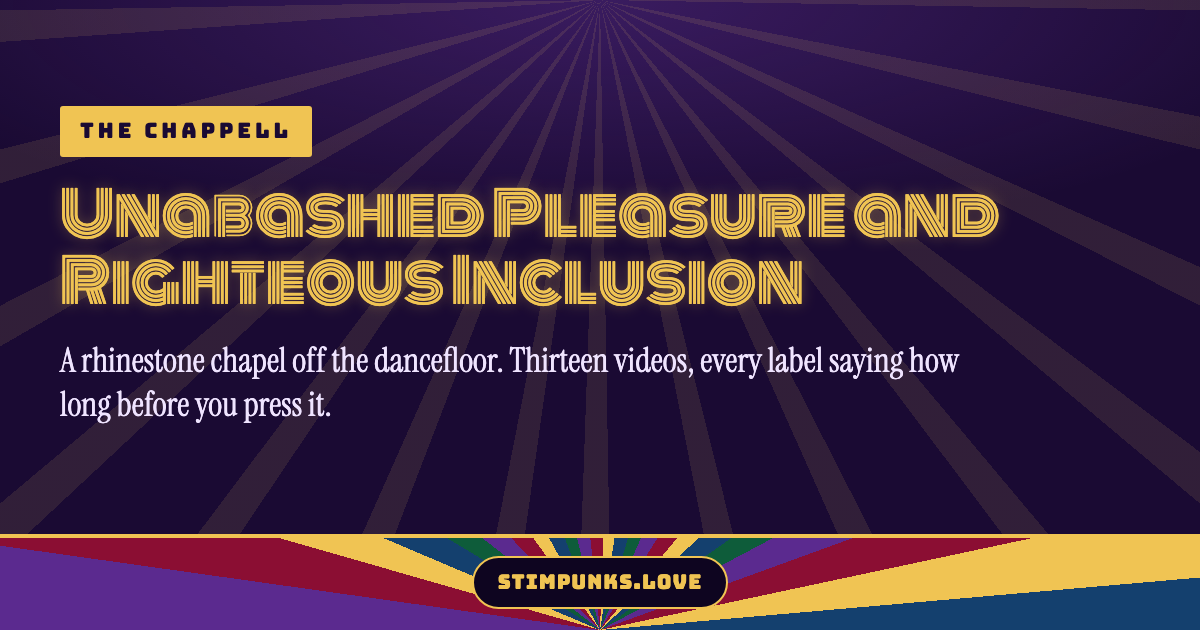
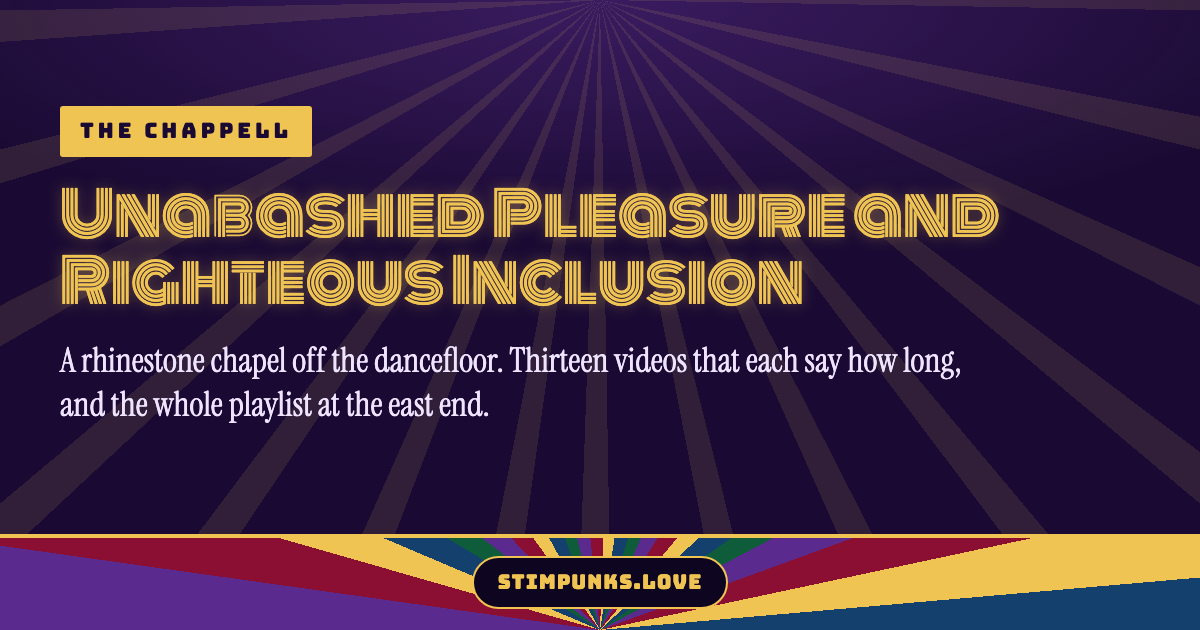
the chappell: a chancel at the east end, and the button that cannot say how long
The whole playlist now plays in The Chappell -- our own, from our own
channel, the one the arcade was lifted from -- at the east end of the
nave, after the thirteen niches you visit one at a time. Ryan asked for
it without the random start, and that is right for a different reason
than convenience: Club Chronic opens a five-hundred-track list somewhere
random because nobody is going to reach the end of it, and these
thirteen were put in an order, so opening in the middle would be this
site overruling the person who chose it.

ADDING THE EMBED WAS THE EASY PART. Two published sentences would have
become false. The room's consent banner said every button says how long
the thing is before you press it -- the promise that room is organised
around, because a twenty-three minute concert sits beside three-minute
videos and one press is only consent if you know what you are agreeing
to. A playlist cannot say how long: it is a list we keep adding to,
today's total is wrong the next time it changes, and an authoritative-
looking wrong number is worse than none. The banner now says every
button THAT PLAYS ONE THING says how long, and that the one playing the
whole playlist says instead that it runs until you stop it.

make-chappell.py holds both halves rather than leaving it to memory: it
REQUIRES a runtime on every track and REFUSES one on the playlist. That
is the pair of rules make-club.py already holds, arriving where a room's
[…]

Changed region(s): [[0.0308, 0.6032, 0.4008, 0.6635], [0.555, 0.5429, 0.8017, 0.6032]]

diff --git a/the-chappell.html b/the-chappell.html
@@ -4,20 +4,20 @@
 <meta charset="utf-8">
 <meta name="viewport" content="width=device-width, initial-scale=1">
 <title>The Chappell &mdash; Stimpunks.Love</title>
-<meta name="description" content="A subroom off Pink Pony Club: thirteen Chappell Roan videos in a rhinestone chapel. Every label says how long before you press it, and nothing reaches YouTube until you do.">
+<meta name="description" content="A subroom off Pink Pony Club: thirteen Chappell Roan videos in a rhinestone chapel, and the whole playlist at the east end. Every label that plays one thing says how long before you press it, and nothing reaches YouTube until you do.">
 <link rel="canonical" href="https://stimpunks.love/the-chappell.html">
 <meta name="color-scheme" content="dark">
 <meta name="theme-color" content="#1A0A33">
 <meta property="og:type" content="website">
 <meta property="og:site_name" content="Stimpunks.Love">
 <meta property="og:title" content="The Chappell &mdash; Stimpunks.Love">
-<meta property="og:description" content="A rhinestone chapel off the dancefloor. Thirteen videos, every label saying how long before you press it.">
+<meta property="og:description" content="A rhinestone chapel off the dancefloor. Thirteen videos that each say how long, and the whole playlist at the east end.">
 <meta property="og:url" content="https://stimpunks.love/the-chappell.html">
 <meta property="og:image" content="https://stimpunks.love/og/the-chappell.png">
 <meta property="og:image:type" content="image/png">
 <meta property="og:image:width" content="1200">
 <meta property="og:image:height" content="630">
-<meta property="og:image:alt" content="A near-black indigo card lit from the top by a violet rose window with thin gold rays fanning out of it. A small gold plate reading THE CHAPPELL, then “Unabashed Pleasure and Righteous Inclusion” in a gold neon-marquee face, and below it in serif: A rhinestone chapel off the dancefloor. Thirteen videos, every label saying how long before you press it. A band of stained glass in ruby, gold, sapphire, emerald and amethyst runs along the foot, with stimpunks.love on a gold-edged tag across it.">
+<meta property="og:image:alt" content="A near-black indigo card lit from the top by a violet rose window with thin gold rays fanning out of it. A small gold plate reading THE CHAPPELL, then “Unabashed Pleasure and Righteous Inclusion” in a gold neon-marquee face, and below it in serif: A rhinestone chapel off the dancefloor. Thirteen videos that each say how long, and the whole playlist at the east end. A band of stained glass in ruby, gold, sapphire, emerald and amethyst runs along the foot, with stimpunks.love on a gold-edged tag across it.">
 <meta name="twitter:card" content="summary_large_image">
 <link rel="icon" href="favicon.svg" type="image/svg+xml">
 <link rel="manifest" href="site.webmanifest">
@@ -55,7 +55,7 @@
 
   <section class="votive">
     <strong>NOTHING PLAYS UNTIL YOU PRESS PLAY.</strong>
-    <p>Same rule as every other room, and one addition that this room needed: <strong>every button says how long the thing is before you press it.</strong> There is a twenty-three minute concert in here sitting beside three-minute videos, and &ldquo;press play&rdquo; is only consent if you know what you are agreeing to. Until you press one, nothing on this page has contacted YouTube &mdash; no iframe, no cookie, no request.</p>
+    <p>Same rule as every other room, and one addition that this room needed: <strong>every button that plays one thing says how long it is before you press it.</strong> There is a twenty-three minute concert in here sitting beside three-minute videos, and &ldquo;press play&rdquo; is only consent if you know what you are agreeing to. <strong>The one button that plays the whole playlist says instead that it runs until you stop it</strong> &mdash; a list we keep adding to has no length, and a number there would be wrong the next time the playlist changed and would look authoritative in the meantime. Until you press one, nothing on this page has contacted YouTube &mdash; no iframe, no cookie, no request.</p>
     <div class="votive__candles" aria-hidden="true"><span></span><span></span><span></span><span></span><span></span><span></span></div>
   </section>
 
@@ -199,6 +199,22 @@
       </li>
     <!-- chappell:end -->
     </ul>
+  </section>
+
+  <!-- THE CHANCEL. The east end of the nave: the whole playlist, after the
+       thirteen niches you visit one at a time. Written by tools/make-chappell.py
+       from data/chappell.json -- do not hand-edit between the markers. -->
+  <section class="chancel">
+<!-- chappell-chancel:begin -->
+      <div class="chancel__glass" aria-hidden="true"></div>
+      <h3>Unabashed Pleasure and Righteous Inclusion With Chappell Roan</h3>
+      <p class="chancel__note">The whole thing, in the order we put it in. The niches are for choosing one; this is for putting it all on and leaving it.</p>
+      <button type="button" class="facade" data-embed-src="https://www.youtube-nocookie.com/embed/videoseries?list=PLRtKsTScL-vTQHqW3QcBQ2mx6yyRNXEhy" data-embed-title="Unabashed Pleasure and Righteous Inclusion With Chappell Roan on YouTube">
+        Play the whole playlist &mdash; runs until you stop it
+        <span class="facade__play">&#9654; PRESS PLAY</span>
+      </button>
+      <p class="chancel__credit">No runtime on this one: a playlist is a list we keep adding to, and a total here would be wrong the next time it changed. On YouTube, from our own channel.</p>
+    <!-- chappell-chancel:end -->
   </section>
 
   <section class="gloria">

diff --git a/changelog.html b/changelog.html
@@ -36,6 +36,18 @@
   <p class="lede">What changed on the street, and when. Every Stimpunks site publishes one of these.</p>
   <p style="margin-top:-6px;"><a href="feed.xml">Subscribe to this page</a> &mdash; the feed is generated from it, so the two cannot disagree.</p>
 
+  <h2 id="2026-09-22-the-chancel">2026-09-22 &mdash; The Chappell gets a chancel, and the one button in it that cannot say how long</h2>
+  <ul>
+    <li><strong><a href="the-chappell.html">The Chappell</a> now plays its whole playlist</strong> &mdash; our own, from our own channel, the one the arcade was lifted from &mdash; at the east end of the nave, after the thirteen niches you visit one at a time. <strong>No random start</strong>, and that is a decision rather than an omission: Club Chronic opens a five-hundred-track list somewhere random because nobody is going to reach the end of it, and these thirteen were put in an order, so starting in the middle would be this site overruling the person who chose it.</li>
+    <li><strong>It is a chancel and not a fourteenth niche.</strong> Same ground, same gold, same cream serif, same glass &mdash; every colour already a pair <code>check-contrast.py</code> holds &mdash; so the east end introduced nothing to measure. What makes it the chancel is <strong>size and solitude</strong>: a deeper arch and no siblings beside it. <strong>If it ever grows a colour of its own, this room has started having two of everything.</strong></li>
+    <li><strong>Adding it would have made two published sentences false, which is the whole reason this took more than an embed.</strong> The room&rsquo;s consent banner said <em>every button says how long the thing is before you press it</em>, and a playlist cannot &mdash; a list we keep adding to has no length, and a number there is wrong the next time it changes and authoritative meanwhile. The banner now says <strong>every button that plays one thing</strong> says how long, and that the one playing the whole playlist says instead that it runs until you stop it.</li>
+    <li><strong>And <code>make-chappell.py</code> holds both halves of that rule now</strong>, which is the pair of rules <code>make-club.py</code> already holds, arriving where a room&rsquo;s whole organising promise is the half it has to break: it <strong>requires</strong> a runtime on every track and <strong>refuses</strong> one on the playlist. <code>make-jungle.py</code> refuses a runtime on a live camera and <code>make-den.py</code> requires one on a song; they are the same promise and must not be made to agree. It also reads the framed origins out of <code>love-embed.js</code> rather than keeping a copy, and refuses a frame with no list id &mdash; a &ldquo;playlist&rdquo; that is not one is a lie about what the button plays.</li>
+    <li><strong>The share card told the same lie and was chased down twice.</strong> The card&rsquo;s serif line and its alt text both claimed every label says how long. Updating the page&rsquo;s <code>description</code> did nothing, because <code>make-og.py</code> builds the card from <strong><code>og:description</code></strong> &mdash; two meta tags one line apart, and the first edit landed on the wrong one and looked like it had worked. Both are corrected and the card and its alt are regenerated from the fixed one.</li>
+    <li><strong>No new origin and no CSP change.</strong> <code>youtube-nocookie</code> has been on this street since it opened, so this one is genuinely just a frame.</li>
+    <li><strong>Verified as rendered.</strong> Zero iframes on load; one press produced one iframe at exactly the playlist URL, unmodified, at 543&times;304, with the thirteen niche buttons untouched. <strong><code>club.js</code> is not loaded on that page at all</strong>, so nothing can quietly move its starting point.</li>
+    <li>Changed: <code>data/chappell.json</code>, <code>the-chappell.html</code>, <code>love.css</code> &sect;12, <code>tools/make-chappell.py</code>, and that room&rsquo;s share card. <code>foundry.html</code> and one other card carry <code>make-og.py</code>&rsquo;s own reordering and a re-encode, which is tool churn rather than a change.</li>
+  </ul>
+
   <h2 id="2026-09-22-two-hosts-opposite-permissions">2026-09-22 &mdash; Apple Music on the stage, and a service that states both permissions itself</h2>
   <ul>
     <li><strong>The playlist is on <a href="club-chronic.html">Club Chronic</a>&rsquo;s stage a fourth time, on Apple Music, and this one is a real screen.</strong> Unlike Qobuz the day before, Apple publishes an embed, so it gets a facade like the other players rather than a door.</li>

diff --git a/foundry.html b/foundry.html
@@ -17,12 +17,12 @@
 <meta property="og:image:type" content="image/png">
 <meta property="og:image:width" content="1200">
 <meta property="og:image:height" content="630">
+<meta property="og:image:alt" content="An iron-grey card lit flatly from above, as if through a dirty workshop roof. On the left, a drawing of a compositor’s galley holding three pieces of metal type standing on their feet, each with a nick cut across the shank and its letter mirrored the way cast type is, with one proof sheet lying under them. On the right, small brass capitals reading cast, proofed, and credited, then “The Foundry” in a heavy stencil face in bone, the strokes bridged where a stencil holds itself together. Under it in brass: Every typeface on this street, and the name of whoever drew it. Then, smaller: A grey iron workshop under a dirty roof. Set any words on this street in any face on this street, pull a proof, and print it with the designer&#x27;s name on it. Along the foot, in grey capitals: nothing here is counted, stimpunks.love.">
+<meta name="twitter:card" content="summary_large_image">
 <!-- og:image:alt is make-og.py's line: it builds the card and writes the alt to
      match it. This copy is here only so a freshly generated page is never without
      one, and it is kept in step by hand -- a stale copy here silently reverts a
      correct alt every time this tool runs, which is how it drifted before. -->
-<meta property="og:image:alt" content="An iron-grey card lit flatly from above, as if through a dirty workshop roof. On the left, a drawing of a compositor’s galley holding three pieces of metal type standing on their feet, each with a nick cut across the shank and its letter mirrored the way cast type is, with one proof sheet lying under them. On the right, small brass capitals reading cast, proofed, and credited, then “The Foundry” in a heavy stencil face in bone, the strokes bridged where a stencil holds itself together. Under it in brass: Every typeface on this street, and the name of whoever drew it. Then, smaller: A grey iron workshop under a dirty roof. Set any words on this street in any face on this street, pull a proof, and print it with the designer&#x27;s name on it. Along the foot, in grey capitals: nothing here is counted, stimpunks.love.">
-<meta name="twitter:card" content="summary_large_image">
 <link rel="icon" href="favicon.svg" type="image/svg+xml">
 <link rel="manifest" href="site.webmanifest">
 <link rel="alternate" href="/feed.xml" type="application/rss+xml" title="Stimpunks.Love &mdash; what changed on the street">

diff --git a/love.css b/love.css
@@ -2198,6 +2198,41 @@ html[data-intensity="gentle"] .room-chappell h1 { text-shadow: none; }
 .room-chappell .facade:hover { background: #1C0C38; }
 .room-chappell .facade__play { color: var(--leaf); }
 
+/* THE CHANCEL — the east end, and the only object in this room that is not one
+   of the thirteen. You walk down the nave past arches you take one at a time,
+   and this is where the whole playlist stands: wider, one arch rather than a
+   grid, on the same bare ground.
+
+   IT IS THE SAME ROOM AND NOT A SECOND ONE. Identical ground, identical gold,
+   identical cream serif, identical glass — every colour in here is a pair
+   check-contrast.py already holds for a niche, so the east end introduces
+   nothing to measure. What makes it the chancel is SIZE and SOLITUDE: a deeper
+   arch and no siblings beside it. If it ever grows a colour of its own, this
+   room has started having two of everything.
+
+   AND ITS BUTTON IS THE ONE HERE THAT CANNOT SAY HOW LONG. The niches each
+   carry a runtime because a press is only consent if you know what you are
+   agreeing to; a playlist has no length to give, so that label says it runs
+   until you stop it and the votive rail says which button does which. */
+.chancel {
+  background: var(--niche); border: 3px solid var(--leaf);
+  border-radius: 240px 240px 10px 10px;
+  padding: 0 26px 22px; overflow: hidden; margin: 30px 0 0;
+}
+.chancel__glass {
+  height: 128px; margin: 0 -26px 18px;
+  background-image: repeating-conic-gradient(from 208deg at 50% 100%,
+    var(--ruby) 0deg 6deg, var(--leaf) 6deg 11deg, var(--sapphire) 11deg 17deg,
+    var(--emerald) 17deg 22deg, var(--amethyst) 22deg 28deg);
+  border-bottom: 3px solid var(--leaf);
+}
+.chancel h3 {
+  margin: 0; font-family: 'Instrument Serif', serif; font-weight: 400;
+  font-size: 31px; line-height: 1.14; color: var(--cream); max-width: 30ch;
+}
+.chancel__note { margin: 8px 0 15px; font-size: 15px; line-height: 1.5; color: #C3B2DE; max-width: 58ch; }
+.chancel__credit { margin: 11px 0 0; font-size: 12.5px; line-height: 1.45; color: #C3B2DE; max-width: 62ch; }
+
 /* The room rule, in the apse. */
 .gloria {
   margin: 30px 0 0; padding: 20px 22px;

diff --git a/tools/make-chappell.py b/tools/make-chappell.py
@@ -32,6 +32,22 @@ only kind of failure worth a refusal:
   - A MISSING TITLE, CHANNEL OR NOTE. Attribution is the one careful habit this
     site kept. A credit row with a hole in it is worse than no credits page.
 
+  - A RUNTIME ON THE PLAYLIST, which is the exact inverse of the rule above it
+    and sits in this tool for the reason make-club.py holds both halves at once.
+    The arcade is thirteen things that each have a length. The chancel at the
+    end of it is the whole playlist, and a playlist HAS no length -- it is a
+    list we keep adding to, today's total is wrong the next time it changes, and
+    an authoritative-looking wrong number is worse than no number. So one kind
+    of button here must say how long and the other must not, and the room's
+    consent banner says which is which. make-jungle.py refuses a runtime on a
+    live camera and make-den.py requires one on a song; they are the same
+    promise and MUST NOT be made to agree.
+
+  - A PLAYLIST FRAME POINTING SOMEWHERE THIS SITE WILL NOT BUILD. Read out of
+    love-embed.js's ORIGINS rather than restated here, which is the rule
+    make-csp.py, make-sweetgrass.py and make-club.py all keep: a hand-kept copy
+    of a list with a single source of truth is the _headers trap in miniature.
+
   - THE SAME ID TWICE. This playlist legitimately holds one song more than once
     in different cuts -- Pink Pony Club as a video and as an acoustic, Casual as
     a video and live -- and those are different ids. A REPEATED id is a paste
@@ -72,6 +88,44 @@ for i, t in enumerate(tracks, 1):
                         "one song are two ids; one id twice is a paste error.")
     seen[t.get("id")] = where
 
+# ── The chancel, at the east end ─────────────────────────────────────────────
+# The one object in this room that is not one of the thirteen, and the one
+# button in it that cannot say how long.
+def origins():
+    """The origins this site will build a frame for, READ rather than restated."""
+    js = (ROOT / "love-embed.js").read_text()
+    block = re.search(r"var ORIGINS = \[(.*?)\];", js, re.S)
+    if not block:
+        raise SystemExit(
+            "REFUSING: love-embed.js has no ORIGINS array, so this tool cannot tell\n"
+            "whether the chancel's frame points somewhere this site will actually build.")
+    return tuple(re.findall(r"'(https://[^']+)'", block.group(1)))
+
+
+pl = data.get("playlist") or {}
+if not pl:
+    problems.append("data/chappell.json has no playlist. The chancel is made of it.")
+else:
+    src = (pl.get("frame") or "").strip()
+    if not src.startswith(origins()):
+        problems.append(
+            f"the chancel frames {src!r}, which is not an origin this site will build. "
+            "love-embed.js returns quietly for a URL it does not recognise, so this "
+            "would be a button somebody presses and presses. Add it to ORIGINS and "
+            "re-run make-csp.py, or fix the URL.")
+    if "list=" not in src:
+        problems.append("the chancel's frame carries no list id, so it is not a playlist "
+                        "at all and the whole object is a lie about what it plays.")
+    if pl.get("length") or pl.get("spoken") or pl.get("runtime"):
+        problems.append(
+            "the chancel carries a runtime. Every OTHER button in this room must have "
+            "one and this one must not: a playlist is a list we keep adding to, so "
+            "today's total is wrong the next time it changes and looks authoritative "
+            "in the meantime. Say it runs until you stop it.")
+    for field in ("title", "note"):
+        if not pl.get(field):
+            problems.append(f"the chancel has no {field}.")
+
 if problems:
     raise SystemExit("REFUSING:\n  " + "\n  ".join(problems))
 
@@ -109,6 +163,25 @@ for t in tracks:
       </li>''')
 swap(ROOM, "chappell", "\n".join(niches), "    ")
 
+# NO RUNTIME ON THIS LABEL, and no random start either -- Ryan's call,
+# 2026-09-22. Club Chronic's stage opens a five-hundred-track list somewhere
+# random because nobody is going to reach the end of it; these thirteen were put
+# in an order, and starting in the middle of a running order somebody chose
+# would be this tool overruling them.
+chancel = (f'      <div class="chancel__glass" aria-hidden="true"></div>\n'
+           f'      <h3>{html.escape(pl["title"])}</h3>\n'
+           f'      <p class="chancel__note">{html.escape(pl["note"])}</p>\n'
+           f'      <button type="button" class="facade" '
+           f'data-embed-src="{html.escape(pl["frame"], quote=True)}" '
+           f'data-embed-title="{html.escape(pl["title"], quote=True)} on YouTube">\n'
+           f'        Play the whole playlist &mdash; runs until you stop it\n'
+           f'        <span class="facade__play">&#9654; PRESS PLAY</span>\n'
+           f'      </button>\n'
+           f'      <p class="chancel__credit">No runtime on this one: a playlist is a list we '
+           f'keep adding to, and a total here would be wrong the next time it changed. '
+           f'On YouTube, from our own channel.</p>')
+swap(ROOM, "chappell-chancel", chancel, "    ")
+
 # ── The credits ──────────────────────────────────────────────────────────────
 rows = []
 for t in tracks:
@@ -126,4 +199,5 @@ def seconds(stamp):
 
 runtime = sum(seconds(t["length"]) for t in tracks)
 print(f"the chappell: {len(tracks)} niches in {ROOM.name}, {len(tracks)} credit rows in "
-      f"{CREDITS.name} · {runtime // 60}m{runtime % 60:02d}s of video, none of it hosted here")
+      f"{CREDITS.name} · the chancel plays the whole playlist and says no runtime · "
+      f"{runtime // 60}m{runtime % 60:02d}s of video in the niches, none of it hosted here")

diff --git a/CLAUDE.md b/CLAUDE.md
@@ -321,6 +321,23 @@ was perfectly willing to frame**. It reads `love-embed.js` now like `make-csp.py
 `make-sweetgrass.py`. The rule is unchanged and is now true in one more file: **adding a service is
 one edit in that array and a re-run of `make-csp.py`**, and never a hand edit to `_headers`.
 
+**THE CHAPPELL HAS A CHANCEL NOW, AND IT IS WHERE THE RUNTIME RULE MET A ROOM BUILT ON THE OPPOSITE
+PROMISE.** That room's consent banner said *every button says how long the thing is before you press
+it* — the sentence the whole room is organised around, because a twenty-three minute concert sits
+beside three-minute videos. A playlist cannot say how long, so adding one **made a published
+sentence false**, and the banner was rewritten to say which kind of button does which rather than
+the playlist being given a number. `make-chappell.py` now **requires** a runtime on every track and
+**refuses** one on the playlist, which is the pair of rules `make-club.py` already holds, arriving
+in a room whose whole organising promise is the half it has to break.
+**The share card said it too**, and that is the trap worth remembering: `make-og.py` builds the card
+from **`og:description`**, not from `<meta name="description">`, and the two sit one line apart — the
+first fix landed on the wrong tag and looked like it had worked. **No random start here**, Ryan's
+call: thirteen videos were put in an order, and opening in the middle of a running order somebody
+chose would be overruling them, where a five-hundred-track list nobody finishes is a different case.
+**And it is a chancel rather than a fourteenth niche** — same ground, gold, serif and glass, so it
+measures nothing new; size and solitude are what make it the east end. If it ever takes a colour of
+its own, this room has started having two of everything.
+
 **EVERY FRAMED ORIGIN IS WRITTEN IN ONE PLACE: `love-embed.js`'s `ORIGINS` array.** The browser
 gets it because `make-csp.py` reads that array and builds `frame-src` from it; the build refuses a
 bad URL early because the room generators read the same array. **Adding a service is one edit
